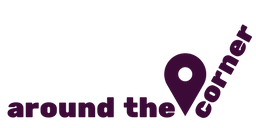
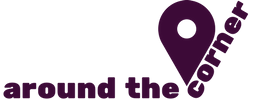
Adjusting some of the text and color information

Changed region(s): [[0.0, 0.0, 1.0, 0.99]]

diff --git a/app/assets/stylesheets/components/_navbar.scss b/app/assets/stylesheets/components/_navbar.scss
@@ -1,7 +1,7 @@
 /* Main navbar */
 .navbar-wagon {
-  box-shadow: 0 1px 5px 0 rgba(0,0,0,0.07),0 1px 0 0 rgba(0,0,0,0.03);
-  background: white;
+  box-shadow: 4px 4px 5px 0 rgba(0,0,0,0.07),0 1px 0 0 rgba(0,0,0,0.03);
+  background: #F7F9EA;
   transition: all 0.3s ease;
   height: 70px;
   padding: 0px 30px;

diff --git a/app/assets/stylesheets/components/_experience-card.scss b/app/assets/stylesheets/components/_experience-card.scss
@@ -1,9 +1,7 @@
 .card {
   height: 400px;
-  text-shadow: 0 1px 3px rgba(0,0,0,0.6);
   background-size: cover !important;
   background-position: center;
-  color: white;
   position: relative;
   margin-bottom: 50px;
 }
